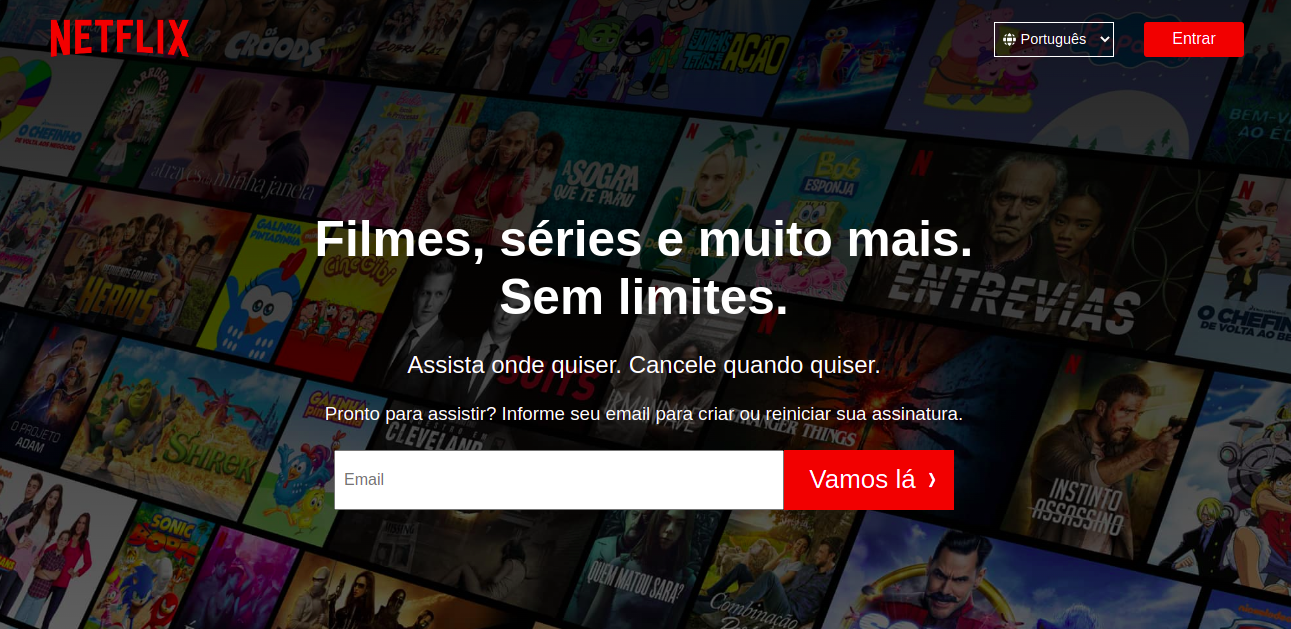
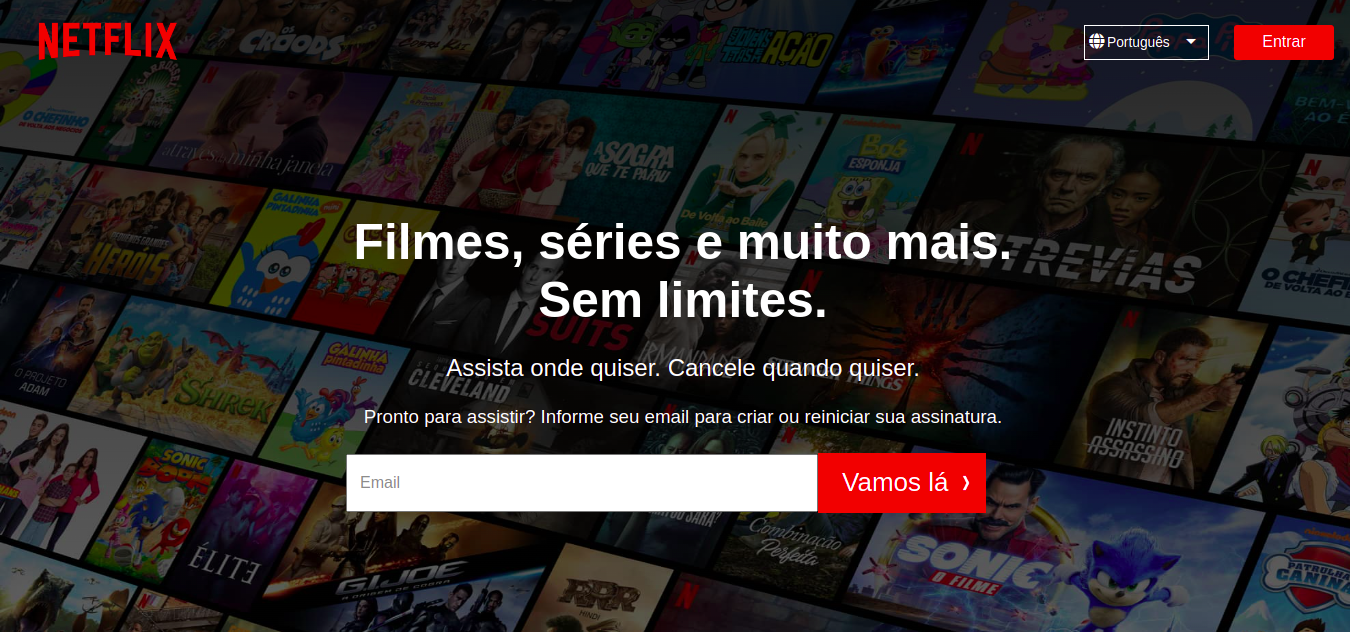
Finalização da página inicial da Netflix e atualização do botão de idiomas

diff --git a/src/scss/main.scss b/src/scss/main.scss
@@ -52,35 +52,6 @@ div.container {
 
                 width: 250px;  
 
-                select {
-                    border: 1px solid $color2;
-
-                    width: 120px;
-
-                    background-color: transparent;
-
-                    padding: 0 1.3em;
-
-                    color: $color2;
-
-                    font-size: 0.86rem;
-
-                    background-image: url('../assets/globo.png');
-                    background-repeat: no-repeat;
-                    background-size: 15px;
-                    background-position: 5px;
-
-                    option {
-                        background-color: $color3;
-
-                        color: $color2;
-                    }
-
-                    &:hover {
-                        cursor: pointer;
-                    }
-                }
-
                 button.loginButton {
                     width: 100px;
                     height: 35px;
@@ -482,6 +453,113 @@ div.container {
                 input:focus + label.clicked {
                     top: 3915px;
                     left: 350px;
+                }
+            }
+        }
+    }
+
+    footer {
+        background-color: $color1;
+
+        width: 100%;
+
+        display: flex;
+        flex-direction: column;
+        align-items: center;
+
+        border-top: 8px solid $color6;
+        
+        div.footerInfos {
+            max-width: 100%;
+            width: 80%;
+    
+            background-color: $color1;
+
+            padding: 70px 80px;
+
+            display: flex;
+            flex-direction: column;
+            align-items: flex-start;
+
+            p {
+                font-size: 16px;
+
+                color: $color9;
+
+                margin-bottom: 1.5em;
+            }
+
+            nav.links {
+                width: 90%;
+
+                display: flex;
+                justify-content: space-between;
+
+                margin-bottom: 1.5em;
+
+                ul{
+                    font-size: 13px;
+
+                    li a {
+                        color: $color9;
+
+                        text-decoration: none;
+
+                        margin-right: 2em;
+                
+                        font-size: 1em;
+
+                        line-height: 2.3em;
+
+                        &:hover {
+                            text-decoration: underline;
+                        }
+                    }
+                }
+            }
+
+            div.language {
+                height: 70px;
+                
+                div.selectLanguage {
+                    span.icon {
+                        color: $color11;
+
+                        top: 15px;
+                        left: 10px;
+
+                        font-size: 20px;
+                    }
+
+                    select {
+                        width: 152px;
+                        height: 51px;
+
+                        -webkit-appearance: none;
+
+                        padding-left: 2.5em;
+
+                        background-size: 20px;
+
+                        border-color: $color10;
+
+                        font-size: 1rem;
+                        
+                        color: $color11;  
+                        
+                        margin-right: 10em;
+                    }
+
+                    span {
+                        color: $color11;
+
+                        top: 12px;
+                        left: 123px;
+                    }
+                }
+
+                p {
+                    font-size: 13px;
                 }
             }
         }

diff --git a/src/page/InitialScreen.jsx b/src/page/InitialScreen.jsx
@@ -1,6 +1,8 @@
 import React from 'react';
 
 import { Question } from '../components/Question';
+import { InputEmail } from '../components/InputEmail';
+import { LanguageOptions } from '../components/LanguageOptions';
 
 import logo from '../assets/netflixlogo.png';
 import TVImage from '../assets/tv.png';
@@ -10,7 +12,6 @@ import devicePile from '../assets/device-pile.png';
 import info from '../assets/info.png';
 
 import '../scss/main.scss';
-import { InputEmail } from '../components/InputEmail';
 
 export function InitialScreen() {
     return(
@@ -20,10 +21,7 @@ export function InitialScreen() {
                     <img src={logo} alt="Netflix Logo" />
 
                     <div className="buttons">
-                        <select name="language" id="language">
-                            <option value="Português">Português</option>
-                            <option value="English">English</option>
-                        </select>
+                        <LanguageOptions />
 
                         <button className="loginButton">Entrar</button>
                     </div>
@@ -166,6 +164,49 @@ export function InitialScreen() {
                     <InputEmail />
                 </div>
             </div>
+            
+            <footer>
+                <div className="footerInfos">
+                    <p>Dúvidas? Ligue 0800 591 8942</p>
+
+                    <nav className="links">
+                        <ul>
+                            <li><a href="#">Perguntas frequentes</a></li>
+                            <li><a href="#">Relações com investidores</a></li>
+                            <li><a href="#">Formas de assistir</a></li>
+                            <li><a href="#">Informações corporativas</a></li>
+                            <li><a href="#">Só na Netflix</a></li>
+                        </ul>
+
+                        <ul>
+                            <li><a href="#">Centro de ajuda</a></li>
+                            <li><a href="#">Carreiras</a></li>
+                            <li><a href="#">Termos de uso</a></li>
+                            <li><a href="#">Entre em contato</a></li>
+                        </ul>
+
+                        <ul>
+                            <li><a href="#">Conta</a></li>
+                            <li><a href="#">Resgatar cartão pré-pago</a></li>
+                            <li><a href="#">Privacidade</a></li>
+                            <li><a href="#">Teste de velocidade</a></li>
+                        </ul>
+
+                        <ul>
+                            <li><a href="#">Media Center</a></li>
+                            <li><a href="#">Comprar cartão pré-pago</a></li>
+                            <li><a href="#">Preferências de cookies</a></li>
+                            <li><a href="#">Avisos legais</a></li>
+                        </ul>
+                    </nav>
+
+                    <div className="language">
+                        <LanguageOptions />
+                        
+                        <p>Netflix Brasil</p>
+                    </div>
+                </div>
+            </footer>
         </div>
     );
 }

diff --git a/src/scss/languageOptions.scss b/src/scss/languageOptions.scss
@@ -1,0 +1,54 @@
+@import './variables';
+
+div.selectLanguage {
+   height: 100%;
+
+   display: flex;
+
+   position: relative;
+
+    span.icon {
+        color: $color2;
+
+        position: absolute;
+        left: 5px;
+        top: 8px;
+    }
+
+    select {
+        border: 1px solid $color2;
+    
+        -webkit-appearance: none;
+    
+        width: 125px;
+        height: 35px;
+    
+        background-color: transparent;
+    
+        padding: 0 1.6em;
+    
+        color: $color2;
+    
+        font-size: 0.86rem;
+    
+        option {
+            background-color: $color3;
+    
+            color: $color2;
+        }
+    
+        &:hover {
+            cursor: pointer;
+        }
+    }
+
+    span {
+        color: $color2;
+
+        position: absolute;
+        left: 95px;
+        top: 4px;
+
+        pointer-events: none;
+    }
+}

diff --git a/index.html b/index.html
@@ -3,8 +3,12 @@
   <head>
     <meta charset="UTF-8" />
     <meta name="viewport" content="width=device-width, initial-scale=1.0" />
+    <meta content="filme, assistir online, assistir TV, TV online, séries, séries de TV online, séries online, ver filmes, filmes streaming, TV streaming, séries streaming, assistir online, assistir filmes Brasil, filmes sem download, temporada completa série, longas, assistir a longas">
+    
     
     <link rel="icon" type="image/svg+xml" href="./src/assets/netflix.png" />
+    <link href="https://fonts.googleapis.com/icon?family=Material+Icons" rel="stylesheet">
+    <script src='https://kit.fontawesome.com/a076d05399.js' crossorigin='anonymous'></script>
 
     <title>Netflix Brasil - assistir a séries online, assistir a filmes online</title>
   </head>

diff --git a/src/components/LanguageOptions.jsx b/src/components/LanguageOptions.jsx
@@ -1,0 +1,16 @@
+import '../scss/languageOptions.scss';
+
+export function LanguageOptions() {
+    return(
+        <div className="selectLanguage">
+            <span className="fas icon">&#xf0ac;</span>
+
+            <select name="language" id="language">
+                <option value="Português">Português</option>
+                <option value="English">English</option>
+            </select>
+
+            <span className="material-icons">&#xe5c5;</span>
+        </div>
+    );
+}

diff --git a/src/scss/_variables.scss b/src/scss/_variables.scss
@@ -6,5 +6,8 @@ $color5: rgb(229, 9, 20);
 $color6: rgb(34, 34, 34);
 $color7: rgb(0, 113, 235);
 $color8: rgb(48, 48, 48);
+$color9: rgb(115, 115, 115);
+$color10: rgb(51, 51, 51);
+$color11: rgb(153, 153, 153);
 
 $color5Hover: rgb(229, 9, 40);

diff --git a/README.md b/README.md
@@ -5,6 +5,7 @@
 <img src="./src/assets/image3.png" />
 <img src="./src/assets/image4.png" />
 <img src="./src/assets/image5.png" />
+<img src="./src/assets/image6.png" />
 
 # Tecnologias
 
